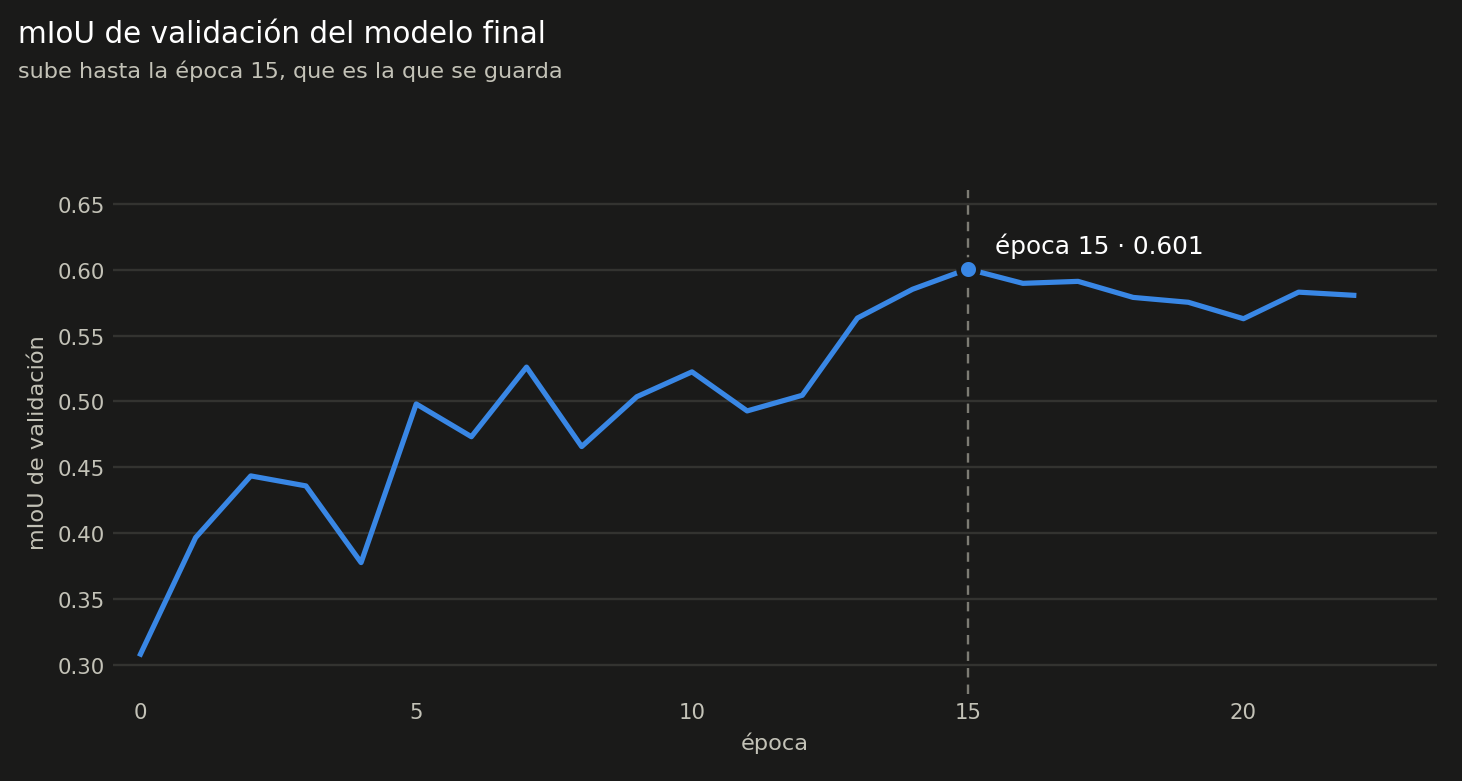
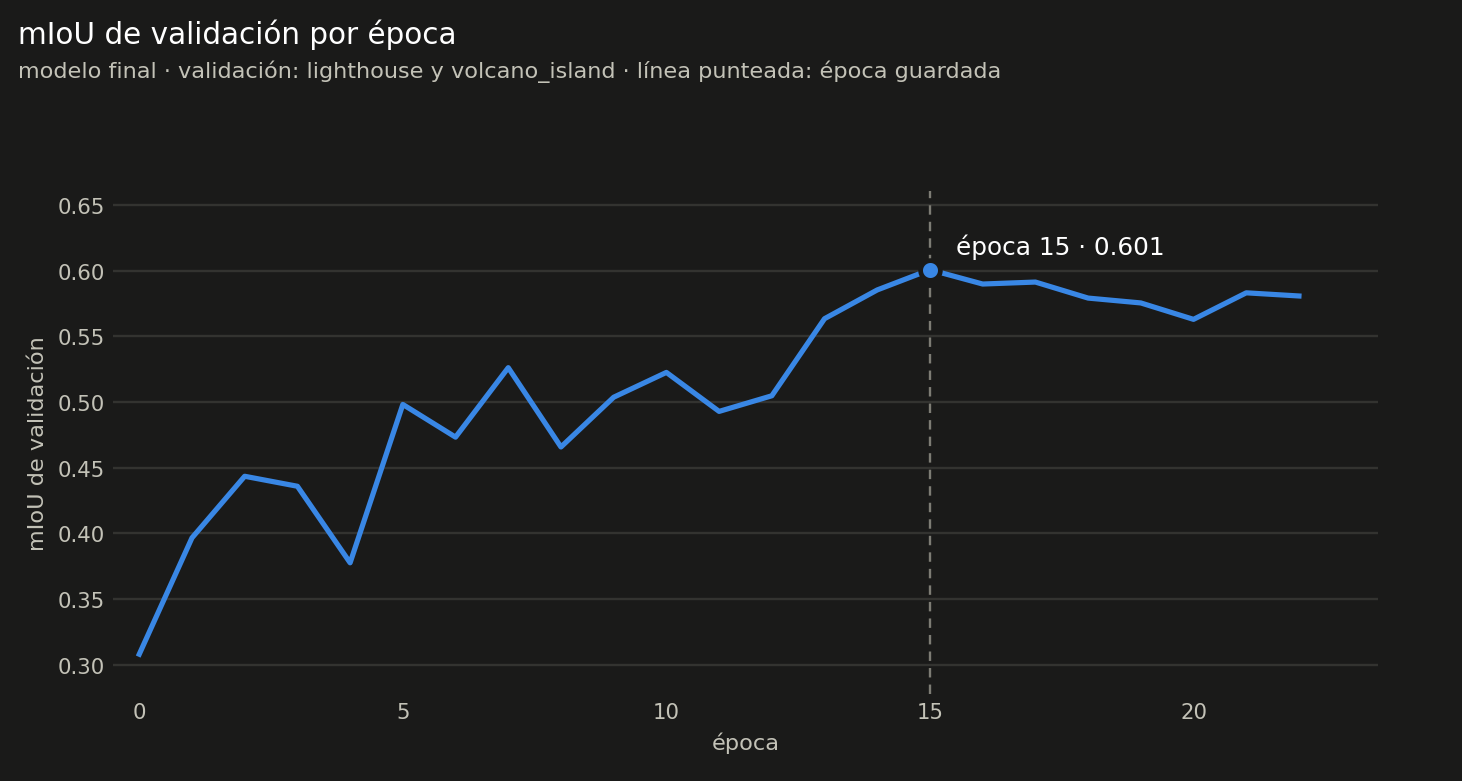
update images titles

diff --git a/docs/generar_figuras.py b/docs/generar_figuras.py
@@ -79,11 +79,11 @@ def fig_comparacion(modo):
         txt.set_color(t['ink2'])
     estilo(fig, ax, t)
     ax.tick_params(axis='y', labelcolor=t['ink'])
-    fig.suptitle('IoU por clase — validación en 2 circuitos nunca vistos',
+    fig.suptitle('IoU por clase en validación: SAM 2 vs U-Net',
                  color=t['ink'], fontsize=12.5, x=0.012, ha='left', y=0.975)
-    fig.text(0.012, 0.905, 'mIoU 0.6008 frente a 0.4629 · encoder de SAM 2 afinado entero',
+    fig.text(0.012, 0.905, 'mIoU: SAM 2 0.6008 · U-Net 0.4629',
              color=t['ink2'], fontsize=9.5, ha='left')
-    fig.tight_layout(rect=[0, 0.06, 1, 0.87])
+    fig.tight_layout(rect=[0, 0.06, 0.96, 0.87])
     fig.savefig('docs/figuras/iou-%s.png' % modo, dpi=170, facecolor=t['surface'])
     plt.close(fig)
 
@@ -172,11 +172,11 @@ def fig_descongelado(modo):
                     frameon=False, fontsize=9.5)
     for txt in leg.get_texts():
         txt.set_color(t['ink2'])
-    fig.suptitle('Descongelar el encoder solo compensa si es entero y despacio',
+    fig.suptitle('mIoU por nivel de descongelado del encoder',
                  color=t['ink'], fontsize=12.5, x=0.012, ha='left', y=0.975)
     fig.text(0.012, 0.905, 'media ± desviación de 4 repeticiones por punto · banda gris: encoder congelado',
              color=t['ink2'], fontsize=9.5, ha='left')
-    fig.tight_layout(rect=[0, 0.05, 1, 0.87])
+    fig.tight_layout(rect=[0, 0.05, 0.96, 0.87])
     fig.savefig('docs/figuras/descongelado-encoder-%s.png' % modo, dpi=170, facecolor=t['surface'])
     plt.close(fig)
 
@@ -214,11 +214,11 @@ def fig_validacion_cruzada(modo):
     ax.set_yticks([])
     estilo(fig, ax, t)
     ax.tick_params(axis='x', labelcolor=t['ink'])
-    fig.suptitle('Afinar el encoder mejora el mIoU en los 3 pliegues',
+    fig.suptitle('Validación cruzada: mejora de mIoU al afinar el encoder',
                  color=t['ink'], fontsize=12.5, x=0.012, ha='left', y=0.975)
-    fig.text(0.012, 0.9, 'mejora frente al encoder congelado, según los circuitos de validación',
+    fig.text(0.012, 0.9, 'diferencia de mIoU frente al encoder congelado, por pliegue',
              color=t['ink2'], fontsize=9.5, ha='left')
-    fig.tight_layout(rect=[0, 0, 1, 0.86])
+    fig.tight_layout(rect=[0, 0, 0.96, 0.86])
     fig.savefig('docs/figuras/validacion-cruzada-%s.png' % modo, dpi=170, facecolor=t['surface'])
     plt.close(fig)
 
@@ -246,11 +246,11 @@ def fig_entrenamiento_validacion(modo):
     ax.yaxis.grid(True, color=t['grid'], lw=1, zorder=0)
     ax.set_axisbelow(True)
     estilo(fig, ax, t)
-    fig.suptitle('Pérdida de entrenamiento vs validación',
+    fig.suptitle('Pérdida de entrenamiento y de validación por época',
                  color=t['ink'], fontsize=12.5, x=0.012, ha='left', y=0.975)
-    fig.text(0.012, 0.9, 'la de entrenamiento sigue bajando; la de validación se estanca desde la época %d'
-             % ep[va.index(min(va))], color=t['ink2'], fontsize=9.5, ha='left')
-    fig.tight_layout(rect=[0, 0, 1, 0.86])
+    fig.text(0.012, 0.9, 'modelo final · validación: lighthouse y volcano_island',
+             color=t['ink2'], fontsize=9.5, ha='left')
+    fig.tight_layout(rect=[0, 0, 0.96, 0.86])
     fig.savefig('docs/figuras/entrenamiento-validacion-%s.png' % modo, dpi=170,
                 facecolor=t['surface'])
     plt.close(fig)
@@ -275,11 +275,11 @@ def fig_miou_validacion(modo):
     ax.yaxis.grid(True, color=t['grid'], lw=1, zorder=0)
     ax.set_axisbelow(True)
     estilo(fig, ax, t)
-    fig.suptitle('mIoU de validación del modelo final',
+    fig.suptitle('mIoU de validación por época',
                  color=t['ink'], fontsize=12.5, x=0.012, ha='left', y=0.975)
-    fig.text(0.012, 0.9, 'sube hasta la época %d, que es la que se guarda' % ep[mejor],
+    fig.text(0.012, 0.9, 'modelo final · validación: lighthouse y volcano_island · línea punteada: época guardada',
              color=t['ink2'], fontsize=9.5, ha='left')
-    fig.tight_layout(rect=[0, 0, 1, 0.86])
+    fig.tight_layout(rect=[0, 0, 0.96, 0.86])
     fig.savefig('docs/figuras/miou-validacion-%s.png' % modo, dpi=170, facecolor=t['surface'])
     plt.close(fig)
 
@@ -340,12 +340,12 @@ def fig_seleccion(modo):
     barra.ax.tick_params(colors=t['ink2'], labelsize=9, length=0)
     barra.set_label('mejor mIoU de validación de cada corrida', color=t['ink2'], fontsize=9.5)
 
-    fig.suptitle('Cómo se eligió el modelo final',
+    fig.suptitle('mIoU de las 72 corridas de descongelado',
                  color=t['ink'], fontsize=12.5, x=0.012, ha='left', y=0.975)
-    fig.text(0.012, 0.915, '72 corridas: 6 niveles de descongelado × 3 learning rates del encoder × 4 '
-             'repeticiones\nprimero la combinación con mejor media; dentro de ella, la mejor repetición',
+    fig.text(0.012, 0.915, '6 niveles de descongelado × 3 learning rates del encoder × 4 repeticiones\n'
+             'recuadro: combinación con mejor media y su mejor repetición',
              color=t['ink2'], fontsize=9.5, ha='left', va='top', linespacing=1.5)
-    fig.subplots_adjust(left=0.2, right=0.97, top=0.8, bottom=0.1)
+    fig.subplots_adjust(left=0.2, right=0.91, top=0.8, bottom=0.1)
     fig.savefig('docs/figuras/seleccion-%s.png' % modo, dpi=170, facecolor=t['surface'])
     plt.close(fig)
 
